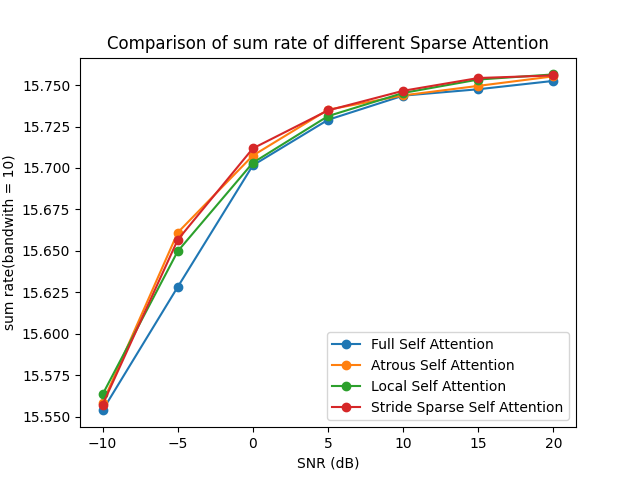
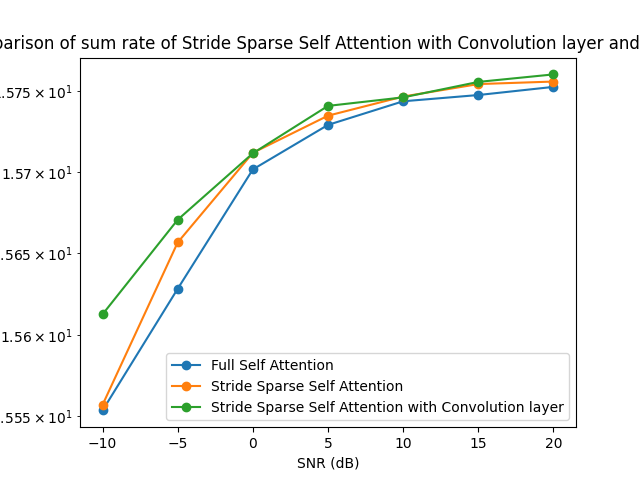
message

diff --git a/SF-CNN/result.py b/SF-CNN/result.py
@@ -181,3 +181,94 @@ plt.ylabel('Proportion')
 
 # 显示图形
 plt.show()
+####################################################################################################################
+# data
+x = [-10, -5, 0, 5, 10, 15, 20]
+
+# CNN, epochs = 200, lr = 0.0001, batch_size = 32
+y1 = [0.8902655945595724, 0.5751199399355023, 0.36848606844546833, 0.29410193315144156, 0.2553683132455284, 0.23459051626799857, 0.2303461244047422]
+
+# Transformers(Encoder * 3 + Decoder * 3), epochs = 200, lr = 0.0001, batch_size = 32
+# reshape type = (Nr, Nt, channel)
+# 自己寫的 multi-head attention
+# Full Self Attention
+y2 = [0.031660910695791245, 0.023208769038319588, 0.017391914501786232, 0.014003201387822628, 0.01258099265396595, 0.012034251354634762, 0.011669430881738663]
+
+# Transformers(Encoder * 3 + Decoder * 3), epochs = 200, lr = 0.0001, batch_size = 32
+# reshape type = (Nr, Nt, channel)
+# 自己寫的 multi-head attention
+# Stride Sparse Self Attention
+y3 = [0.03285108879208565, 0.0230310820043087, 0.01766713708639145, 0.014568011276423931, 0.013989264145493507, 0.01138947531580925, 0.011203959584236145]
+
+# Transformers(Encoder * 3 + Decoder * 3, (16 * 32 * 4)), epochs = 400, lr = 0.0001, batch_size = 32
+# 自己寫的 multi-head self attention, stride_sparse_self_attention, ff layer 用 Conv1D
+y4 = [0.03439707309007645, 0.026073306798934937, 0.017007041722536087, 0.014019380323588848, 0.012292718514800072, 0.011388428509235382, 0.01079531293362379]
+
+# draw
+plt.plot(x, y2, marker='o', label='Full Self Attention')
+plt.plot(x, y3, marker='o', label='Stride Sparse Self Attention')
+plt.plot(x, y4, marker='o', label='Stride Sparse Self Attention with Convolution layer')
+
+# set y-axis to log scale
+plt.yscale('log')
+
+# add title and axis labels
+plt.title('Comparison of NMSE of different Stride Sparse Self Attention with Convolution layer and Others')
+plt.xlabel('SNR (dB)')
+plt.ylabel('NMSE (log scale)')
+
+# add legend
+plt.legend()
+
+# save the plot
+plt.savefig('Comparison of NMSE of different Stride Sparse Self Attention with Convolution layer and Others')
+
+# display the plot
+plt.grid(True)
+plt.show()
+####################################################################################################################
+# data
+x = [-10, -5, 0, 5, 10, 15, 20]
+
+# CNN, epochs = 200, lr = 0.0001, batch_size = 32
+y1 = [12.940970626378812, 13.972075582297652, 14.508584726671309, 14.825802753405233, 14.9719951899972, 15.106508174427415, 15.093083672359931]
+
+# Transformers(Encoder * 3 + Decoder * 3), epochs = 200, lr = 0.0001, batch_size = 32
+# reshape type = (Nr, Nt, channel)
+# 自己寫的 multi-head attention
+# Full Self Attention
+y2 = [15.56542539475691, 15.641844298837185, 15.69420245522329, 15.72461722262373, 15.73736293004918, 15.742259803203385, 15.74552633958734]
+
+# Transformers(Encoder * 3 + Decoder * 3), epochs = 200, lr = 0.0001, batch_size = 32
+# reshape type = (Nr, Nt, channel)
+# 自己寫的 multi-head attention
+# Stride Sparse Self Attention
+y3 = [15.5546319101134, 15.643446541205929, 15.69172941135746, 15.719552365946374, 15.724742243510288, 15.74803261180948, 15.749693078885972]
+
+# Transformers(Encoder * 3 + Decoder * 3, (16 * 32 * 4)), epochs = 400, lr = 0.0001, batch_size = 32
+# 自己寫的 multi-head self attention, stride_sparse_self_attention, ff layer 用 Conv1D
+y4 = [15.540599845944227, 15.615990333026495, 15.697660026461994, 15.72447224009828, 15.739945099336358, 15.748042005613945, 15.753350134796849]
+
+# draw
+# plt.plot(x, y1, marker='o', label='CNN')
+plt.plot(x, y2, marker='o', label='Full Self Attention')
+plt.plot(x, y3, marker='o', label='Stride Sparse Self Attention')
+plt.plot(x, y4, marker='o', label='Stride Sparse Self Attention with Convolution layer')
+
+# set y-axis to log scale
+plt.yscale('log')
+
+# add title and axis labels
+plt.title('Comparison of sum rate of Stride Sparse Self Attention with Convolution layer and Others')
+plt.xlabel('SNR (dB)')
+plt.ylabel('sum rate(bandwith = 10) (log scale)')
+
+# add legend
+plt.legend()
+
+# save the plot
+plt.savefig('Comparison of sum rate of Stride Sparse Self Attention with Convolution layer and Others')
+
+# display the plot
+plt.grid(True)
+plt.show()

diff --git a/SFT-CNN/result.py b/SFT-CNN/result.py
@@ -181,3 +181,94 @@ plt.ylabel('Proportion')
 
 # 显示图形
 plt.show()
+####################################################################################################################
+# data
+x = [-10, -5, 0, 5, 10, 15, 20]
+
+# CNN, epochs = 200, lr = 0.0001, batch_size = 32
+y1 = [0.649711661089483, 0.3475041160976275, 0.22225152482196797, 0.14494572869140035, 0.12128514659706721, 0.10142940629835279, 0.08489599243689268]
+
+# Transformers(Encoder * 3 + Decoder * 3), epochs = 200, lr = 0.0001, batch_size = 32
+# reshape type = (Nr, Nt, channel)
+# 自己寫的 multi-head attention
+# Full Self Attention
+y2 = [0.03295202925801277, 0.024725012481212616, 0.016572220250964165, 0.01351124607026577, 0.011882485821843147, 0.011450755409896374, 0.010888315737247467]
+
+# Transformers(Encoder * 3 + Decoder * 3), epochs = 200, lr = 0.0001, batch_size = 32
+# reshape type = (Nr, Nt, channel)
+# 自己寫的 multi-head attention
+# Stride Sparse Self Attention
+y3 = [0.032578837126493454, 0.021571574732661247, 0.015432968735694885, 0.012876344844698906, 0.011555371806025505, 0.010694130323827267, 0.010519152507185936]
+
+# Transformers(Encoder * 3 + Decoder * 3, (16 * 32 * 4)), epochs = 400, lr = 0.0001, batch_size = 32
+# 自己寫的 multi-head self attention, stride_sparse_self_attention, ff layer 用 Conv1D
+y4 = [0.026461079716682434, 0.02001900039613247, 0.015465594828128815, 0.012200472876429558, 0.01161318738013506, 0.010544214397668839, 0.010024880059063435]
+
+# draw
+plt.plot(x, y2, marker='o', label='Full Self Attention')
+plt.plot(x, y3, marker='o', label='Stride Sparse Self Attention')
+plt.plot(x, y4, marker='o', label='Stride Sparse Self Attention with Convolution layer')
+
+# set y-axis to log scale
+plt.yscale('log')
+
+# add title and axis labels
+plt.title('Comparison of NMSE of different Stride Sparse Self Attention with Convolution layer and Others')
+plt.xlabel('SNR (dB)')
+plt.ylabel('NMSE (log scale)')
+
+# add legend
+plt.legend()
+
+# save the plot
+plt.savefig('Comparison of NMSE')
+
+# display the plot
+plt.grid(True)
+plt.show()
+####################################################################################################################
+# data
+x = [-10, -5, 0, 5, 10, 15, 20]
+
+# CNN, epochs = 200, lr = 0.0001, batch_size = 32
+y1 = [14.058652952281365, 14.863718856051712, 15.277555758699604, 15.44859638003606, 15.347140577498028, 15.615965469824227, 15.62448257698082]
+
+# Transformers(Encoder * 3 + Decoder * 3), epochs = 200, lr = 0.0001, batch_size = 32
+# reshape type = (Nr, Nt, channel)
+# 自己寫的 multi-head attention
+# Full Self Attention
+y2 = [15.553713778468975, 15.62816334863857, 15.701564150189729, 15.72902636704422, 15.743617962580778, 15.747483214712926, 15.752517105400617]
+
+# Transformers(Encoder * 3 + Decoder * 3), epochs = 200, lr = 0.0001, batch_size = 32
+# reshape type = (Nr, Nt, channel)
+# 自己寫的 multi-head attention
+# Stride Sparse Self Attention
+y3 = [15.557099334636352, 15.656598549726002, 15.711791330535348, 15.734716119263615, 15.746546646253226, 15.754254715761103, 15.755820227182856]
+
+# Transformers(Encoder * 3 + Decoder * 3, (16 * 32 * 4)), epochs = 400, lr = 0.0001, batch_size = 32
+# 自己寫的 multi-head self attention, stride_sparse_self_attention, ff layer 用 Conv1D
+y4 = [15.612484924773147, 15.670577807075269, 15.711498480955896, 15.740770340016148, 15.746029074173723, 15.755596040137812, 15.760241620702807]
+
+# draw
+# plt.plot(x, y1, marker='o', label='CNN')
+plt.plot(x, y2, marker='o', label='Full Self Attention')
+plt.plot(x, y3, marker='o', label='Stride Sparse Self Attention')
+plt.plot(x, y4, marker='o', label='Stride Sparse Self Attention with Convolution layer')
+
+# set y-axis to log scale
+plt.yscale('log')
+
+# add title and axis labels
+plt.title('Comparison of sum rate of Stride Sparse Self Attention with Convolution layer and Others')
+plt.xlabel('SNR (dB)')
+plt.ylabel('sum rate(bandwith = 10) (log scale)')
+
+# add legend
+plt.legend()
+
+# save the plot
+plt.savefig('Comparison of sum rate of different Sparse Attention')
+
+# display the plot
+plt.grid(True)
+plt.show()
